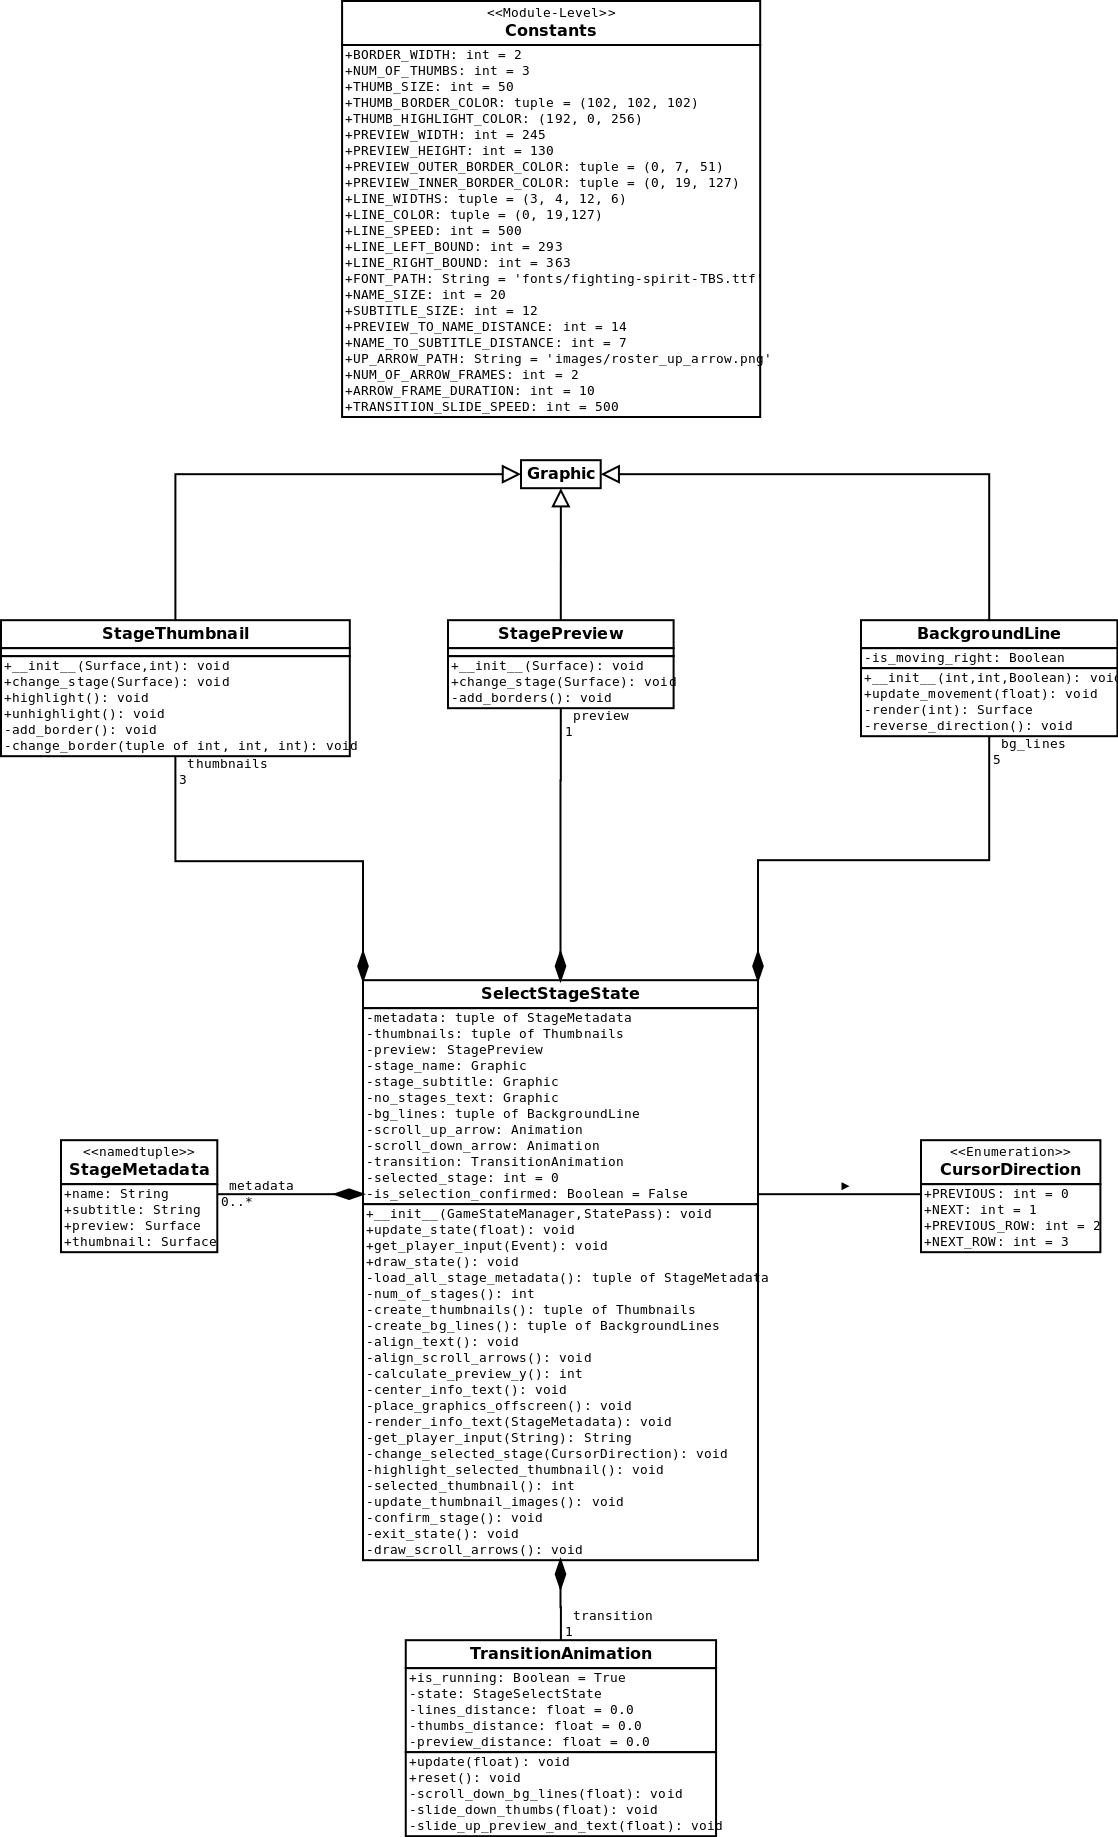
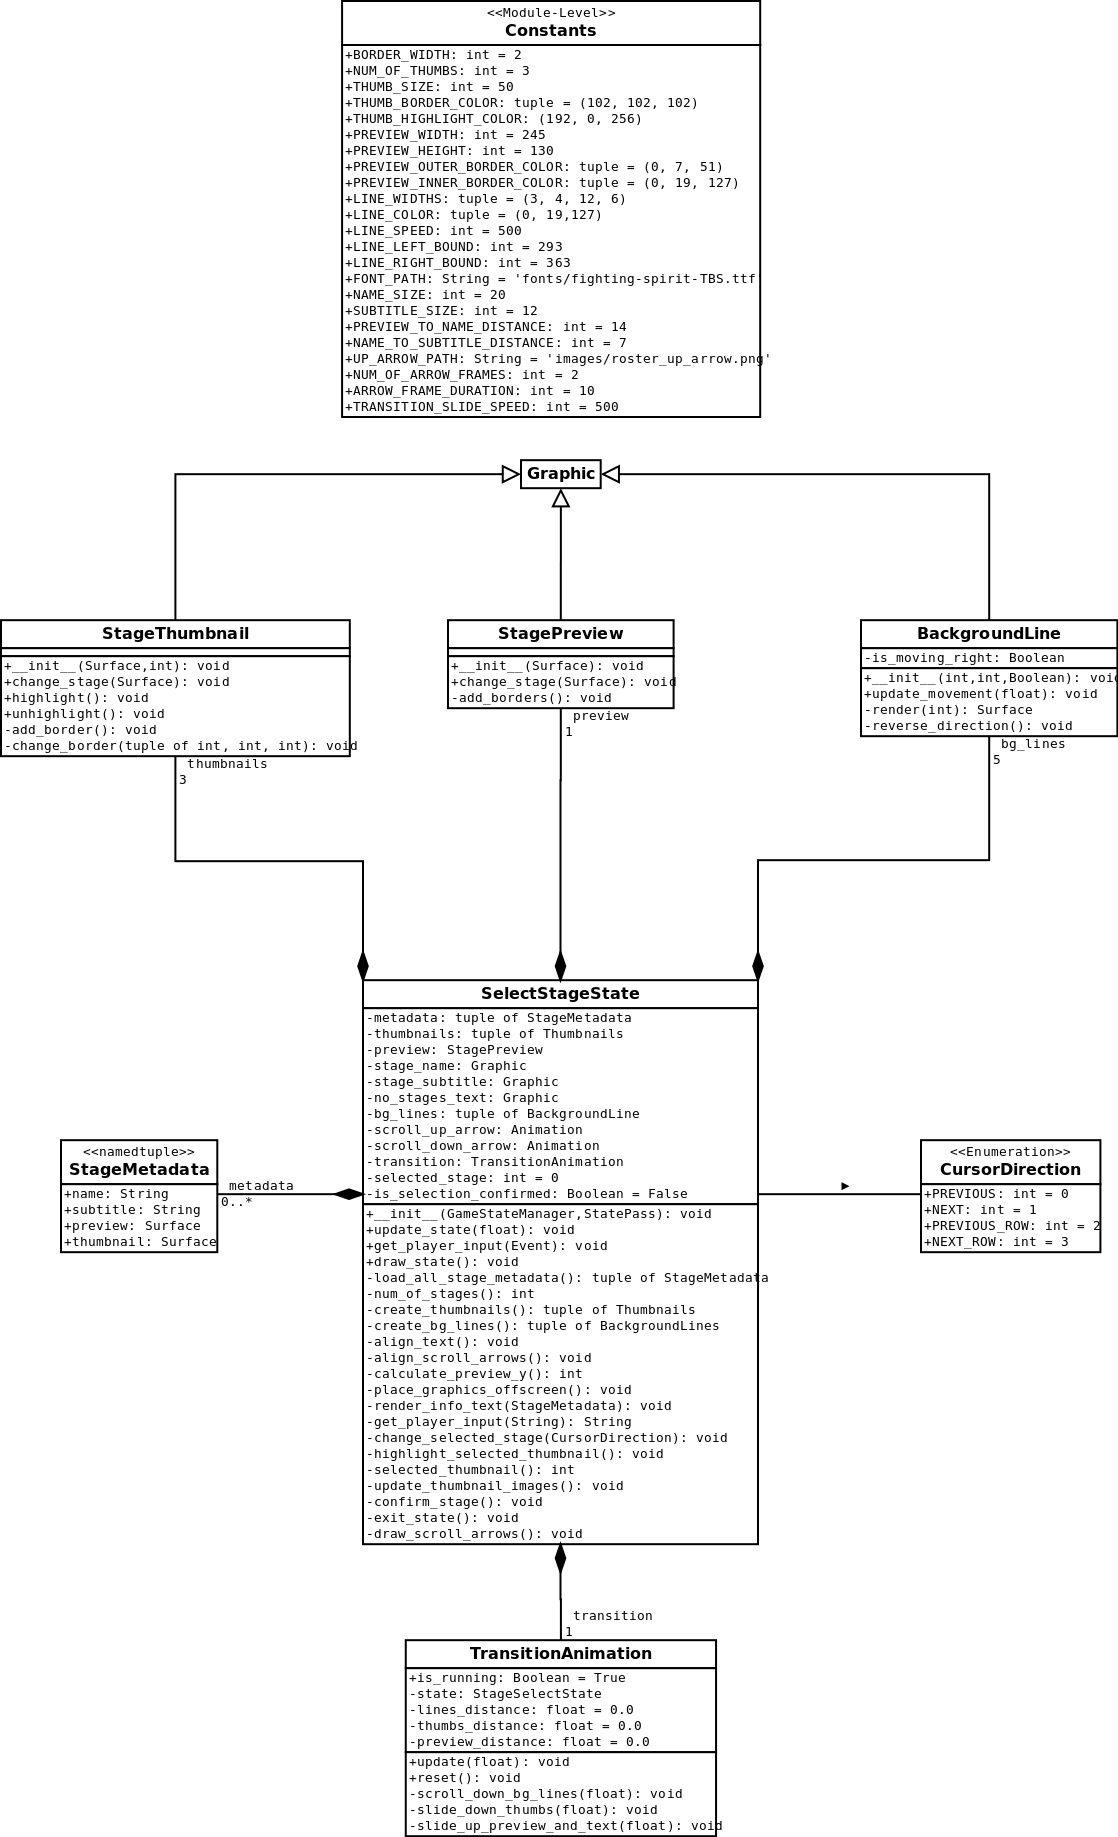
Integrate center_info_text() into align_text()
Since the text will always need to be aligned horizontally and
vertically, it makes sense to combine both types of centering into
a single function.

Changed region(s): [[0.3345, 0.7447, 0.6691, 0.8688]]

diff --git a/lib/game_states/stage_select_state.py b/lib/game_states/stage_select_state.py
@@ -240,15 +240,31 @@ class StageSelectState(State):
         return bg_lines
 
     def align_text(self):
-        """Position the text Graphics appropriately on the screen."""
+        """Position the text Graphics appropriately on the screen, so
+        that they are centered horizontally in the area left of the
+        BackgroundLines, as well as centered vertically across the
+        screen height alongside the StagePreview.
+        """
         preview_y = self.calculate_preview_y()
-        self.stage_name.rect.y = (preview_y + PREVIEW_HEIGHT +
-                                  (BORDER_WIDTH * 2) +
-                                  PREVIEW_TO_NAME_DISTANCE)
-        self.stage_subtitle.rect.y = (self.stage_name.rect.y +
-                                      self.stage_name.rect.height +
-                                      NAME_TO_SUBTITLE_DISTANCE)
-        self.center_info_text()
+        area_width = SCREEN_SIZE[0] - (SCREEN_SIZE[0] - LINE_LEFT_BOUND)
+
+        if self.num_of_stages() > 0:
+            self.stage_name.rect.x = calculate_center_position(0, area_width,
+                self.stage_name.rect.width)
+            self.stage_subtitle.rect.x = calculate_center_position(0,
+                area_width, self.stage_subtitle.rect.width)
+            self.stage_name.rect.y = (preview_y + PREVIEW_HEIGHT +
+                                      (BORDER_WIDTH * 2) +
+                                      PREVIEW_TO_NAME_DISTANCE)
+            self.stage_subtitle.rect.y = (self.stage_name.rect.y +
+                                          self.stage_name.rect.height +
+                                          NAME_TO_SUBTITLE_DISTANCE)
+        else:
+            self.no_stages_text.rect.x = calculate_center_position(0,
+                area_width, self.no_stages_text.rect.width)
+            self.no_stages_text.rect.y = (preview_y + PREVIEW_HEIGHT +
+                                          (BORDER_WIDTH * 2) +
+                                          PREVIEW_TO_NAME_DISTANCE)
 
     def align_scroll_arrows(self):
         """Position the scroll arrows appropriately on the screen."""
@@ -276,21 +292,6 @@ class StageSelectState(State):
             NAME_TO_SUBTITLE_DISTANCE + self.stage_subtitle.rect.height)
         return calculate_center_position(0, SCREEN_SIZE[1],
                                          preview_and_text_height)
-
-    def center_info_text(self):
-        """Center the Stage name and subtitle texts horizontally within
-        their allotted area.
-        """
-        area_width = SCREEN_SIZE[0] - (SCREEN_SIZE[0] - LINE_LEFT_BOUND)
-
-        if self.num_of_stages() > 0:
-            self.stage_name.rect.x = calculate_center_position(0, area_width,
-                self.stage_name.rect.width)
-            self.stage_subtitle.rect.x = calculate_center_position(0,
-                area_width, self.stage_subtitle.rect.width)
-        else:
-            self.no_stages_text.rect.x = calculate_center_position(0,
-                area_width, self.no_stages_text.rect.width)
 
     def get_player_input(self, event):
         """Read input from the players and respond to it.
